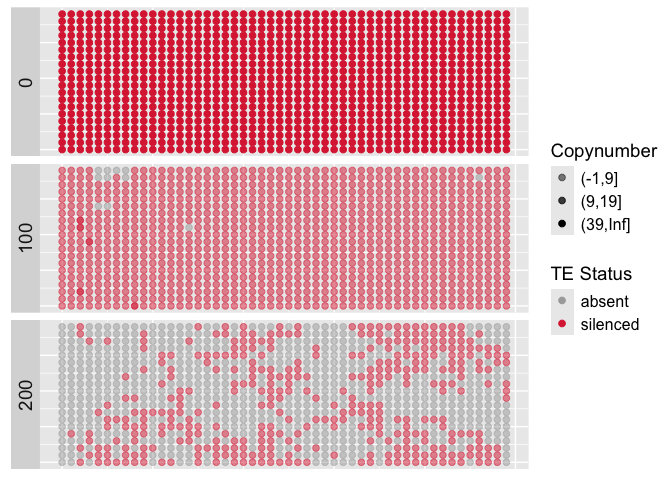
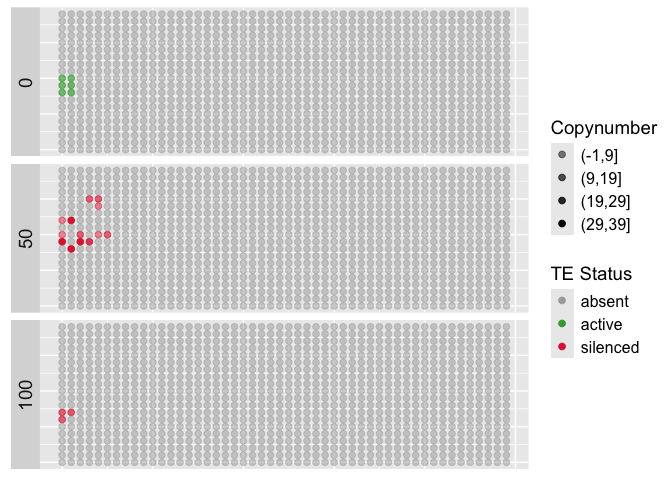
mate radius 2 ro

diff --git a/doc/simple.md b/doc/simple.md
@@ -1,7 +1,9 @@
 simple simulation scenarios
 ================
 
-## Simplest simulation - TE invasion without host defence
+# Simplest simulation - TE invasion without host defence
+
+## simple - mate radius 1
 
 ``` bash
 # simulation code
@@ -39,7 +41,26 @@ generation 1; it is invading the population uninhibited by any host
 defence. furthermore very high TE copy numbers per individual are
 reached by generation 100
 
-## Host defence - no epigenetic inherited silencing
+## simple - mate radius 2
+
+``` bash
+# simulation code
+./invade --seed 5 --genome MB:1,1 --rr 4,4 --u 0.1 --grid-x 50 --grid-y 20 --mate-radius 2 --epi-inherit none --basepop 9-11,1-2,10 --rep 1 --steps 5 --gen 100 --file-spatial simple-mr2.txt 
+```
+
+**parameters explained**
+
+- all parameters like before except
+- –mate-radius 2: hence potential mates can be found more distantly of
+  the focal species (as compared to mate-radius 1)
+
+![](simple_files/figure-gfm/unnamed-chunk-4-1.png)<!-- -->
+
+**Note** with a larger mate radius the TE will spread faster
+
+# Host defence
+
+## host defence - no epigenetic inherited silencing
 
 ``` bash
 ./invade --seed 5 --genome MB:1,1 --rr 4,4 --u 0.1 --grid-x 50 --grid-y 20 --mate-radius 1 --epi-inherit none --basepop 9-11,1-2,10 --rep 1 --steps 5 --gen 100 --trigger-defense 40 --file-spatial simple-defence.txt
@@ -52,7 +73,7 @@ reached by generation 100
   i.e. individuals with 40 TE insertions will have a transposition rate
   u=0.0
 
-![](simple_files/figure-gfm/unnamed-chunk-4-1.png)<!-- -->
+![](simple_files/figure-gfm/unnamed-chunk-6-1.png)<!-- -->
 
 **Note** the TE starts spreading at the small patch by generation 1. By
 generation 50 already several indivdiuals have triggered the host
@@ -60,7 +81,7 @@ defence (no epigenetic inheritance in this scenario); By generation 100,
 bot the TE and the host defence is spreading; **important** only
 individuals with 40 or more TE copies can have the silencing state
 
-## Host defence - uniparental epigenetic silencing inheritance
+## host defence - uniparental epigenetic silencing inheritance
 
 ``` bash
 ./invade --seed 5 --genome MB:1,1 --rr 4,4 --u 0.1 --grid-x 50 --grid-y 20 --mate-radius 1 --epi-inherit dros --basepop 9-11,1-2,10 --rep 1 --steps 5 --gen 100 --trigger-defense 40 --file-spatial simple-defence-dros.txt 
@@ -77,12 +98,12 @@ individuals with 40 or more TE copies can have the silencing state
   status; paternal offspring will have active TEs (unless the mother has
   silenced TEs)
 
-![](simple_files/figure-gfm/unnamed-chunk-6-1.png)<!-- -->
+![](simple_files/figure-gfm/unnamed-chunk-8-1.png)<!-- -->
 
 **Note** in this scenario even individuals with \<40 TEs may have
 silenced TEs (compare to previous scenario with –epi-inheritance none )
 
-## Host defence - biparental epigenetic silencing inheritance
+## host defence - biparental epigenetic silencing inheritance
 
 ``` bash
 ./invade --seed 5 --genome MB:1,1 --rr 4,4 --u 0.1 --grid-x 50 --grid-y 20 --mate-radius 1 --epi-inherit ara --basepop 9-11,1-2,10 --rep 1 --steps 5 --gen 100 --trigger-defense 40 --file-spatial simple-defence-ara.txt 
@@ -94,12 +115,12 @@ silenced TEs (compare to previous scenario with –epi-inheritance none )
   is silenced in any parent, the TE will be silenced in all offspring
   (even if the TE is still active in the other parent)
 
-![](simple_files/figure-gfm/unnamed-chunk-8-1.png)<!-- -->
+![](simple_files/figure-gfm/unnamed-chunk-10-1.png)<!-- -->
 
 **Note** how the epigenetic silencing is spreading faster than the TE
 such that by generation 100 all TE insertions are silenced; furthermore
 
-## Host defence - biparental epigenetic silencing and selfing
+## host defence - biparental epigenetic silencing and selfing
 
 ``` bash
 ./invade --seed 5 --genome MB:1,1 --rr 4,4 --u 0.1 --grid-x 50 --grid-y 20 --mate-radius 1 --epi-inherit ara --basepop 9-11,1-2,10 --rep 1 --steps 5 --gen 100 --trigger-defense 40 --selfing-rate 0.95 --condinv --file-spatial simple-defence-ara-self.txt 
@@ -112,9 +133,11 @@ such that by generation 100 all TE insertions are silenced; furthermore
 - –condinv: conditional on invasion; this is just a convenience method
   (rescuing me from finding seeds where it does work)
 
-![](simple_files/figure-gfm/unnamed-chunk-10-1.png)<!-- -->
+![](simple_files/figure-gfm/unnamed-chunk-12-1.png)<!-- -->
 
-## Negative selection against inactive TEs - biparental inheritance
+# Negative selection against inactive TEs
+
+## negative selection - biparental inheritance
 
 ``` bash
 ./invade --seed 5 --genome MB:1,1 --rr 4,4 --u 0.1 --grid-x 50 --grid-y 20 --mate-radius 1 --epi-inherit ara --basepop "1-20,1-50,40'" --rep 1 --steps 5 --gen 400 --trigger-defense 40 --s 0.1 --h 0.5 --file-spatial simple-negsel-ara.txt
@@ -126,18 +149,18 @@ such that by generation 100 all TE insertions are silenced; furthermore
 - –h 0.5: selection against heterozygous insertions, fitness is w=1-hs
 - –basepop “1-20,1-50,40’” all individuals in the entire population will
   have 40 **silenced** TE insertions (the dash indicates the silencing)
-  ![](simple_files/figure-gfm/unnamed-chunk-12-1.png)<!-- -->
+  ![](simple_files/figure-gfm/unnamed-chunk-14-1.png)<!-- -->
 
 **Note** selection against TEs may lead to a patchy distribution **when
 TEs are silenced biparental**
 
-## Negative selection against inactive TEs - uniparental inheritance
+## negative selection - uniparental inheritance
 
 ``` bash
 ./invade --seed 5 --genome MB:1,1 --rr 4,4 --u 0.1 --grid-x 50 --grid-y 20 --mate-radius 1 --epi-inherit dros --basepop "1-20,1-50,40'" --rep 1 --steps 5 --gen 400 --trigger-defense 40 --s 0.1 --h 0.5 --file-spatial simple-negsel-dros.txt 
 ```
 
-![](simple_files/figure-gfm/unnamed-chunk-14-1.png)<!-- -->
+![](simple_files/figure-gfm/unnamed-chunk-16-1.png)<!-- -->
 
 **Now this is a surprise to me! negative selection against TEs with
 uniparental silencing does not lead to patchyness** actually it
@@ -146,7 +169,7 @@ the entire base population! thats truly fascinating! but makes sense, as
 soon as some individuals have zero TEs (thanks to neg.sel.) the TE can
 be reactivated by paternal crosses
 
-## Population structure - uniparental inheritance
+# Population structure - uniparental inheritance
 
 ``` bash
 ./invade --seed 5 --genome MB:1,1 --rr 4,4 --u 0.1 --grid-x 50 --grid-y 20 --mate-radius 1 --epi-inherit dros --basepop 9-11,1-2,10 --rep 1 --steps 5 --gen 100 --trigger-defense 40 --mate-barrier 25 --barrier-strength 0.99 --file-spatial simple-matebar.txt 
@@ -160,7 +183,7 @@ be reactivated by paternal crosses
 - –barrier-strength 0.99: a 99% reduction in mating-probabilty for
   individuals on opposite ends of the barrier
 
-![](simple_files/figure-gfm/unnamed-chunk-16-1.png)<!-- -->
+![](simple_files/figure-gfm/unnamed-chunk-18-1.png)<!-- -->
 
 **Note** the coordinates of the mate barrier can be clearly discerned at
 generation 100; also not how all individuals in the left subpopulation
